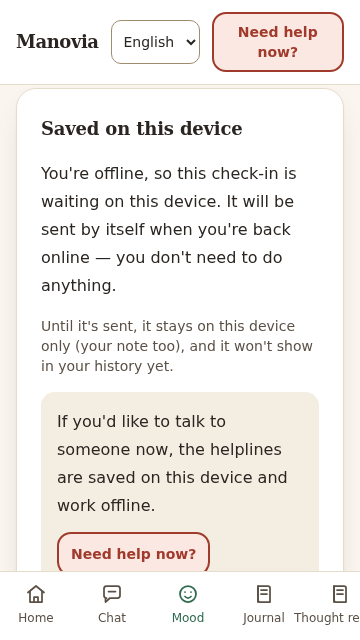
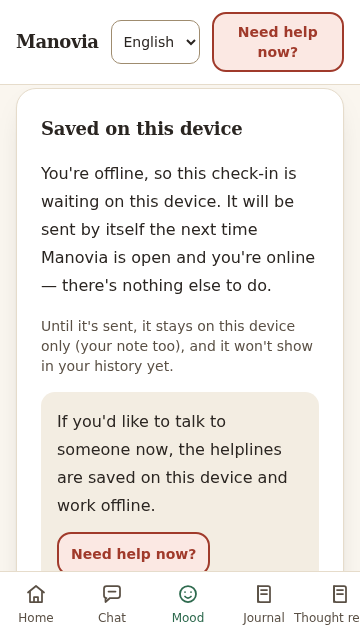
docs: Day 25 README screenshots and features, assets index, ADR 0025 in the index

Changed region(s): [[0.1222, 0.3438, 0.8861, 0.4688]]

diff --git a/README.md b/README.md
@@ -17,9 +17,27 @@ A privacy-first, safety-first mental wellbeing self-help companion—not therapy
 - **CBT thought record** — a seven-step, owner-only encrypted wizard with per-step safety screening and a closed-set thinking-trap helper ([ADR 0019](docs/adr/0019-cbt-thought-record.md)).
 - **PHQ-9 & GAD-7 screenings** — the official instrument wording and published scoring, with support options shown before any score when PHQ-9 item 9 is positive ([ADR 0020](docs/adr/0020-phq-9-and-gad-7-screenings.md)).
 - **Daily plan** — a transparent, rule-based planner that suggests at most three things a day, each with a "why this?" explanation, honours quiet hours, and reduces to support-only after a positive item 9 ([ADR 0021](docs/adr/0021-daily-plan-and-week-3-review.md)).
+- **Works offline, for everyone** — an installable app (PWA) in which "Need help now?" and the breathing exercises work with no signal; check-ins made offline wait on the device and are sent once you're back online with Manovia open; unsaved journal words survive a dropped connection. Built to WCAG 2.2 AA — keyboard-only use, screen-reader announcements, reflow at 200 % and 400 % zoom, 44 px targets, reduced motion and a high-contrast mode — with an in-app accessibility statement (`/accessibility`), and kept light for low-end phones on slow networks by bundle and Lighthouse budgets that fail CI ([ADR 0025](docs/adr/0025-pwa-accessibility-low-bandwidth.md)).
 - **Foundations** — guest auth with consent gating, structured logging with log redaction, security headers, field-level encryption, and a React frontend with design tokens, two navigations, an onboarding gate, and a crisis helpline dialog.
 
 Manovia is a self-help companion, not therapy or diagnosis. See [docs/architecture.md](docs/architecture.md) for how a message travels, and [docs/model-card.md](docs/model-card.md) for the safety model's intended use and limits.
+
+## Screenshots
+
+Captured from the production build in Chromium with a fresh guest account and
+synthetic content only (Day 25). Regenerate with the command in
+[docs/assets/README.md](docs/assets/README.md).
+
+| Home on a 360 × 640 phone | "Need help now?" with no connection | A check-in saved offline |
+| --- | --- | --- |
+| <img src="docs/assets/day25-home-mobile-360x640.png" width="240" alt="Manovia home screen on a small phone: a greeting, then a quick check-in with five face buttons from Very low to Very good, and the bottom navigation."> | <img src="docs/assets/day25-offline-help-mobile-360x640.png" width="240" alt="The Need help now dialog while offline: a note says these are the helplines saved on this device the last time you were online, followed by the first helpline entry."> | <img src="docs/assets/day25-offline-checkin-mobile-360x640.png" width="240" alt="The confirmation after checking in offline: saved on this device, it will be sent by itself the next time Manovia is open and you're online; the note stays on this device until then; a Need help now button."> |
+
+| Settings in high contrast | Exercises in dark high contrast | The accessibility statement |
+| --- | --- | --- |
+| <img src="docs/assets/day25-settings-high-contrast-desktop-1280x800.png" width="320" alt="Settings at desktop width with High contrast selected: palette and contrast choices as large radio cards, and a line saying text pairs are at least 7:1."> | <img src="docs/assets/day25-exercises-dark-high-contrast-desktop-1280x800.png" width="320" alt="The Exercises page in the dark high-contrast palette: a note that exercises work offline, the optional suggestions form, and exercise cards with large Try buttons."> | <img src="docs/assets/day25-accessibility-statement-desktop-1280x800.png" width="320" alt="The Accessibility page: what Manovia aims for (WCAG 2.2 AA and beyond) and a list of what it does, such as keyboard use, landmarks, labelled forms and 44 pixel targets."> |
+
+The Day 12 chat screenshots (light, dark and the crisis card, at both sizes)
+are in [docs/assets](docs/assets/README.md).
 
 ## Architecture
 
@@ -76,7 +94,11 @@ npm run dev
 | `make seed`                   | Create the demo user and its rows                   |
 | `make eval`                   | Run the Day 9 safety evaluation (`evals/run_safety_eval.py`) |
 
-The frontend's own commands live in [frontend/README.md](frontend/README.md).
+The frontend's own commands live in [frontend/README.md](frontend/README.md),
+including the Day 25 production-build checks: `npm run budget` (bundle
+budgets), `npm run test:e2e:prod` (axe, keyboard, zoom, offline and
+installability in a real browser) and `npm run lighthouse` (mobile Lighthouse
+with budgets). CI runs all three in `.github/workflows/a11y-lighthouse.yml`.
 
 ## Safety
 
@@ -91,4 +113,5 @@ Configuration comes only from environment variables (see `.env.example`); secret
 - **Week 1** — repository scaffolding, backend skeleton, data layer, auth with consent, frontend skeleton, NLP service, CI and Docker stack.
 - **Week 2** — crisis rules before any model call, the safety ML classifier and first eval set, the LLM provider layer with PII redaction, the chat orchestrator and chat UI, knowledge base and retrieval, output guard and encrypted conversation memory.
 - **Week 3** — mood check-ins, encrypted journal, guided exercises, the CBT thought record, PHQ-9/GAD-7 screenings, and the daily plan with a Week-3 review.
+- **Week 4 (in progress)** — privacy controls with export and real deletion, English/Hindi/Bengali, the evaluation harness, and offline support, accessibility and low-bandwidth performance (PWA).
 - **Next** — deployment workflows, clinician and native-speaker review of crisis content and safe replies (Hindi/Bengali first), and continued hardening of the safety surfaces.

diff --git a/PROGRESS.md b/PROGRESS.md
@@ -2753,6 +2753,7 @@ other three jobs.
 - [0022 — Privacy controls: export everything, delete everything, keep nothing secret from its owner](docs/adr/0022-privacy-controls-and-data-export.md): the export is decrypted for the owner and declares its own limits (`truncated_tables`, per-row `decryption_failed`, `format_version`) because a silent omission in a data export is the one failure it must not have; deletion is one cascade transaction with re-authentication and a receipt that proves *that* it happened and never *what* was in it (`account_ref` = keyed HMAC, no content column); privacy settings default rather than 404 and a `PATCH` never resets fields it was not given; retention is a real job with a dry run, per-user windows and idempotence, deliberately **not** self-scheduling (the gap is stated, not papered over with a thread); and the alternatives rejected on the way (passphrase-encrypted exports, streaming exports, a soft-delete recovery window, an in-container cron) are recorded with the reason each lost.
 - [0023 — Multilingual: English, Hindi, Bengali — in that order of trust](docs/adr/0023-multilingual-english-hindi-bengali.md): one bundled locale tree per language with build-failing structural parity; resolution order stored choice → browser subtag → English; server copy validated at load with `{emergency_number}` the only placeholder; the daily plan keeps the language of its first request for the day; Indic script + romanised patterns with per-language eval floors; PHQ-9/GAD-7 held at their published English wordings until validated editions are sourced (never machine-translated); AI-produced hi/bn marked per key group for native review in `translations/STATUS.md` with an empty sign-off log; pseudo-localisation as the hard-coded-string and overflow detector; exactly two pinned Google-Fonts origins added to both CSPs for Noto Devanagari/Bengali.
 - [0024 — Evaluation harness: three pipelines, bootstrap CIs, regression diffs, and an honest CI gate](docs/adr/0024-evaluation-harness.md): one offline-first `make eval` runner (`evals/run_all_evals.py`) across safety, emotion, and response rubric pipelines; declarative thresholds in `evals/thresholds.yaml` enforcing both ensemble (`>= 0.97`) and rules-only (`>= 0.330`) `HIGH+IMMINENT` recall plus zero recall regression vs the previous dated report; non-parametric percentile bootstrap 95% CIs ($B = 2{,}000$, seed `20261012`); explicit `in_domain` vs `domain_shift` stratification in `emotion_cases.jsonl` so keyword/sentiment fallback blind spots (`0.992 -> 0.011`) cannot hide behind an aggregate macro-F1; 60 multi-turn `ChatOrchestrator` scenarios (`chat_rubric.jsonl`) gated by 6 deterministic checks while keeping the optional 4-axis LLM-as-judge (`evals/prompts/response_judge_v1.md`) strictly advisory; and a weekly + PR GitHub Action (`.github/workflows/evals.yml`) that posts a sticky PR summary comment.
+- [0025 — Offline help, accessibility to WCAG 2.2 AA, and a budget for low-end phones](docs/adr/0025-pwa-accessibility-low-bandwidth.md): a hand-written `injectManifest` service worker whose privacy boundary is a unit-tested module (`src/pwa/swRoutes.ts`) — the app shell is precached (minus Insights and the chart library), and exactly two public API answers are cached: helplines network-first with a 3 s timeout and 30-day expiry, exercises stale-while-revalidate — while any request with `Authorization` and every personal endpoint is never cached; **no background sync and no token in the worker**; offline check-ins queue in a page-level outbox with a server-side idempotency key (`client_id`, unique per user) and `recorded_at` accepted 7 days back (10 min future skew clamped), are still safety-screened on replay, and show crisis help if a synced note needs it; one local journal draft offered back, never applied or sent by itself; plain text on the device stated as a residual risk rather than "encrypted" with a key on the same device; the install offer lives only in Settings (90-day "Not now"); WCAG 2.2 AA as the floor with 44 px targets, a 7:1 high-contrast mode and nothing timed; route splitting, on-demand hi/bn catalogues and fonts (zero third-party requests in English), and budgets that fail the build (`npm run budget`, Lighthouse 13 runner on `lighthouserc.json`, axe/keyboard/zoom/offline/installability Playwright on the production build) — with "PWA pass" as our own installability test because Lighthouse dropped its PWA category in v12. Rejected: `generateSW` regexes, Workbox Background Sync, caching personal data, on-device encryption, hard-coded helplines, `@lhci/cli` (11 extra high advisories), and an install banner.
 
 ## Known issues
 

diff --git a/docs/assets/README.md b/docs/assets/README.md
@@ -73,3 +73,35 @@ npx playwright screenshot --viewport-size=1280,800 \
 Screenshots show only synthetic guest data: a first-visit plan ("Take a first
 check-in") or a plan generated from synthetic moods created through the app.
 No real person's words, ever.
+
+## Day 25 screenshots — generated 2026-10-12 from the production build
+
+Captured by `frontend/e2e/day25/screenshots.spec.ts` in Chromium 153 (the same
+`@sparticuz/chromium` binary as Day 21, see above) against the **production
+build** served by `vite preview` and the live API with the Fake model — the
+service worker, and therefore the offline states, only exist in that build.
+The spec is skipped unless `CAPTURE_SCREENSHOTS=1`, so CI never rewrites these
+files. To regenerate them:
+
+```bash
+# 1. the API with the offline Fake model, on :8000 (as above)
+# 2. the production build with the same-origin /api proxy
+cd frontend && npm run build && npx vite preview --host 0.0.0.0 --port 4173
+# 3. in another terminal
+cd frontend && CAPTURE_SCREENSHOTS=1 npx playwright test -c playwright.prod.config.ts screenshots
+```
+
+| file | what it shows |
+| --- | --- |
+| `day25-home-mobile-360x640.png` | the home screen at 360x640 after onboarding, with offline support ready: greeting, quick check-in, bottom navigation |
+| `day25-offline-help-mobile-360x640.png` | "Need help now?" opened with the network off: the "saved on this device" note above the cached helplines |
+| `day25-offline-checkin-mobile-360x640.png` | the confirmation after a check-in made offline: kept on this device, sent the next time Manovia is open and online, with the way to the helplines |
+| `day25-settings-high-contrast-desktop-1280x800.png` | Settings at 1280x800 with the high-contrast palette on (7:1 text pairs) |
+| `day25-exercises-dark-high-contrast-desktop-1280x800.png` | Exercises in the dark high-contrast palette |
+| `day25-accessibility-statement-desktop-1280x800.png` | the accessibility statement (`/accessibility`) |
+
+Only synthetic content appears: a fresh guest account, the made-up note
+`A made-up note, written offline.`, and the helpline entries the shipped
+content file serves for the `DEFAULT` region. No real person's words, ever.
+`day25-offline-checkin-mobile-360x640.png` was re-captured during Day 25
+verification after its copy was corrected (see PROGRESS.md).
